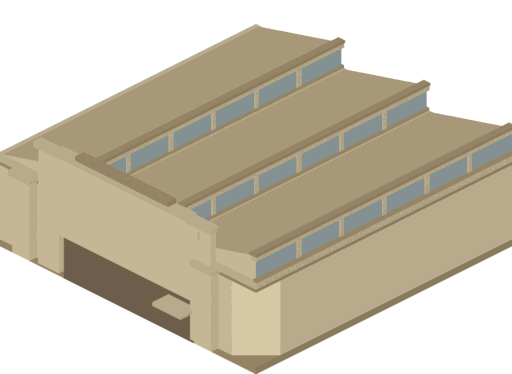
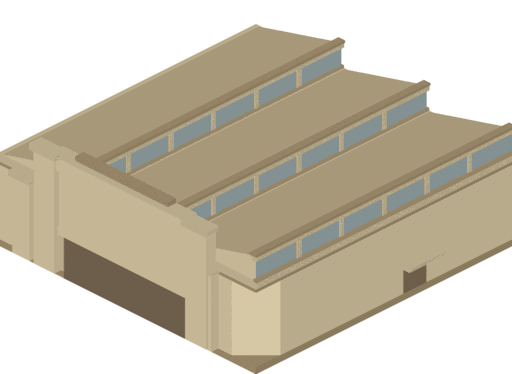
fix(lot): finish authored Stage B release art
Production punch list from the final blind review. Two surgical corrections on
top of the frozen release-closure candidate; nothing else touched.

Cornice termination: the header band ended in mid-wall with a blunt cut face
because it projected past the entrance piers. The piers are now proud of it
and cap both ends, so the stop reads as designed rather than severed. The band
keeps its weight; no wrap onto the shadow elevation, no second band, no new
vocabulary. The piers were raised to z=0.12 so their deeper projection does
not push the bottom silhouette below the 2:1 ground line.

Shadowed elevation: it carried no mid-wall architecture at all after the
authorised deletion of the stain-like micro-detail, and the reviewer read it as
accidentally blank. None of the deleted detail is restored. Instead the
EXISTING personnel door and canopy move here from the lit elevation — a service
door on the service face — giving that elevation one readable reason and
relieving the busiest elevation at the same time. The canopy is modestly
enlarged so the pair reads at the management camera.

Verified against the release-closure candidate: bottom edge unchanged at
2.0px max deviation / 5px run / 0 columns over 2px, canvas 512x374, bottom
vertex 373, signage zone 100%, raw normal/worn geometry delta 0px, worn
decorative brass 0, displayObjects 143 with delta 0, flag ON/OFF and the
missing-asset fallback all behaving as before.
[…]

diff --git a/docs/art/AUTHORED-SOUNDSTAGE-PIPELINE-PROOF-PROVENANCE.md b/docs/art/AUTHORED-SOUNDSTAGE-PIPELINE-PROOF-PROVENANCE.md
@@ -4,12 +4,15 @@ Scope: the two runtime images added by this proof branch.
 
 | | |
 |---|---|
-| `ui/public/lot/b-stage-b.png` | 10,161 B · `sha256 d539af1da5c140f7142d4b859ecabad602c504c60a6e91d9aa2bab8bf47bf349` |
-| `ui/public/lot/b-stage-b-ud.png` | 8,535 B · `sha256 f04e47dfbe02655ae67c92731c0d977fe131f5806177a87c81e7ec98c7fefbae` |
+| `ui/public/lot/b-stage-b.png` | 10,242 B · `sha256 d4d8b1ebaec6603d76b8f273670c46c00c7617db4e5d45bdb2bec0070b7d715a` |
+| `ui/public/lot/b-stage-b-ud.png` | 8,576 B · `sha256 770d05edb602f13af0164e85d199582473fa74cdadf7c104a6b2dbd0299cc479` |
 
 Both are 512 × 374 RGBA PNG-8, quantised against a **shared** palette so the two finishes cannot
 differ by a stray alpha pixel. Release-closure revision: the three roof units, one of the twin header pinstripes and the two
 flat wall panels were removed after runtime review found them illegible at the management camera.
+Production punch list: the header band now dies into proud entrance piers instead of ending in
+mid-wall, and the existing personnel door and canopy were relocated to the shadowed elevation so
+that face carries one readable architectural reason rather than reading accidentally blank.
 Authored offline in Blender 5.2.0 LTS; the `.blend` source, render
 intermediates and all acquired source archives stay outside this repository.
 
